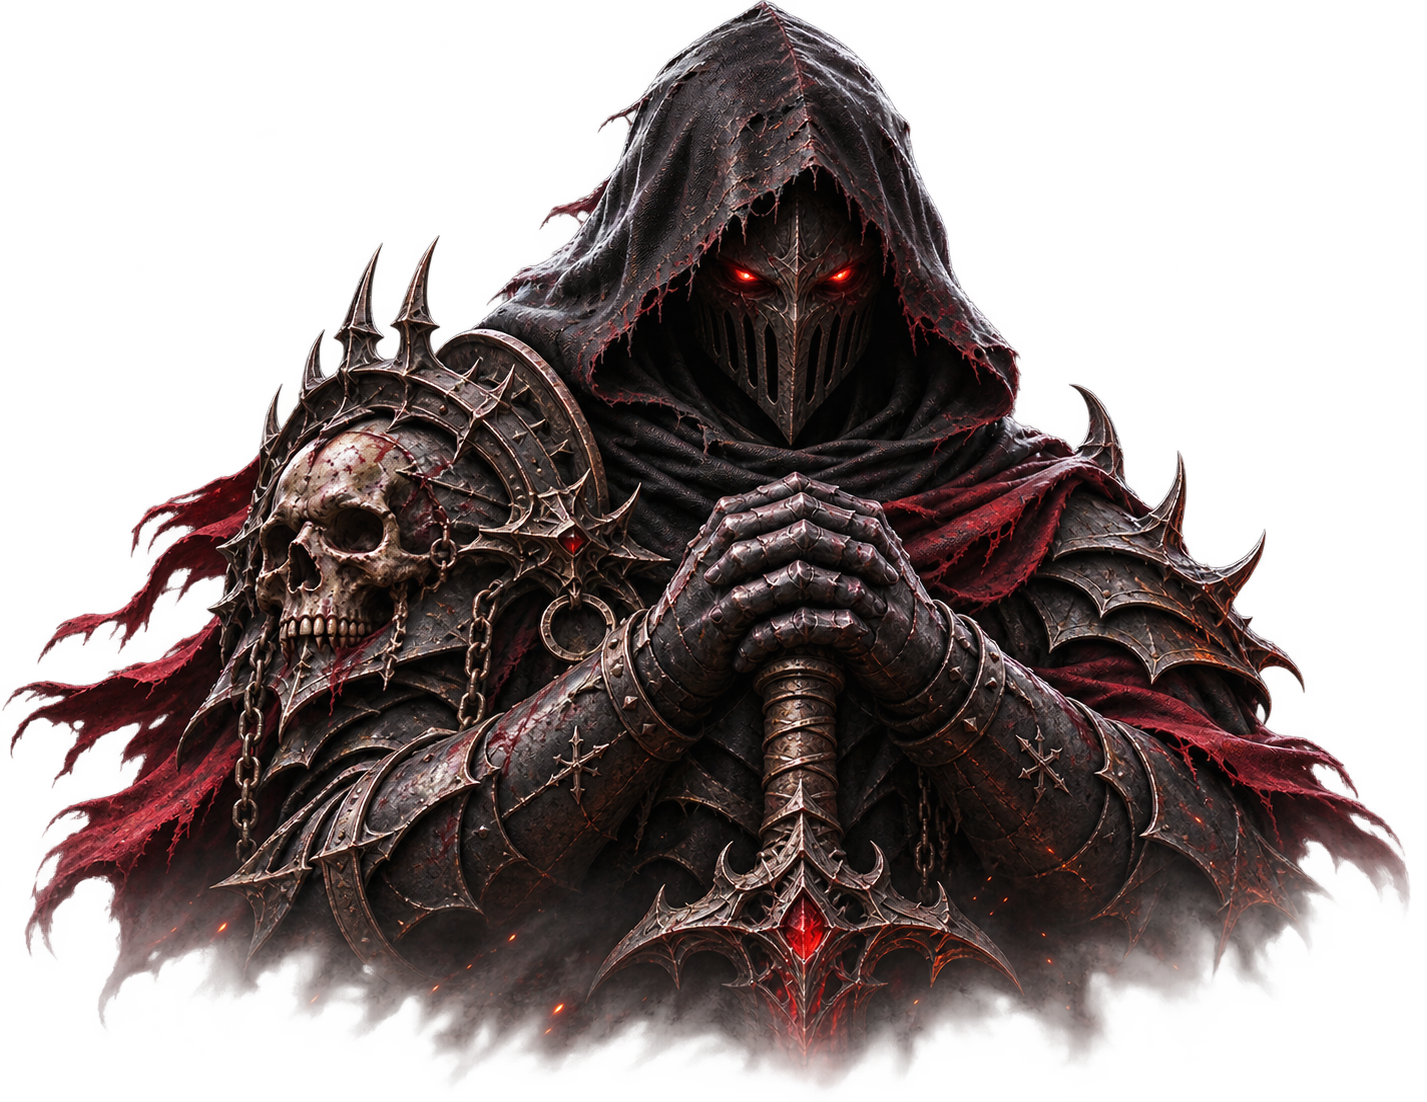
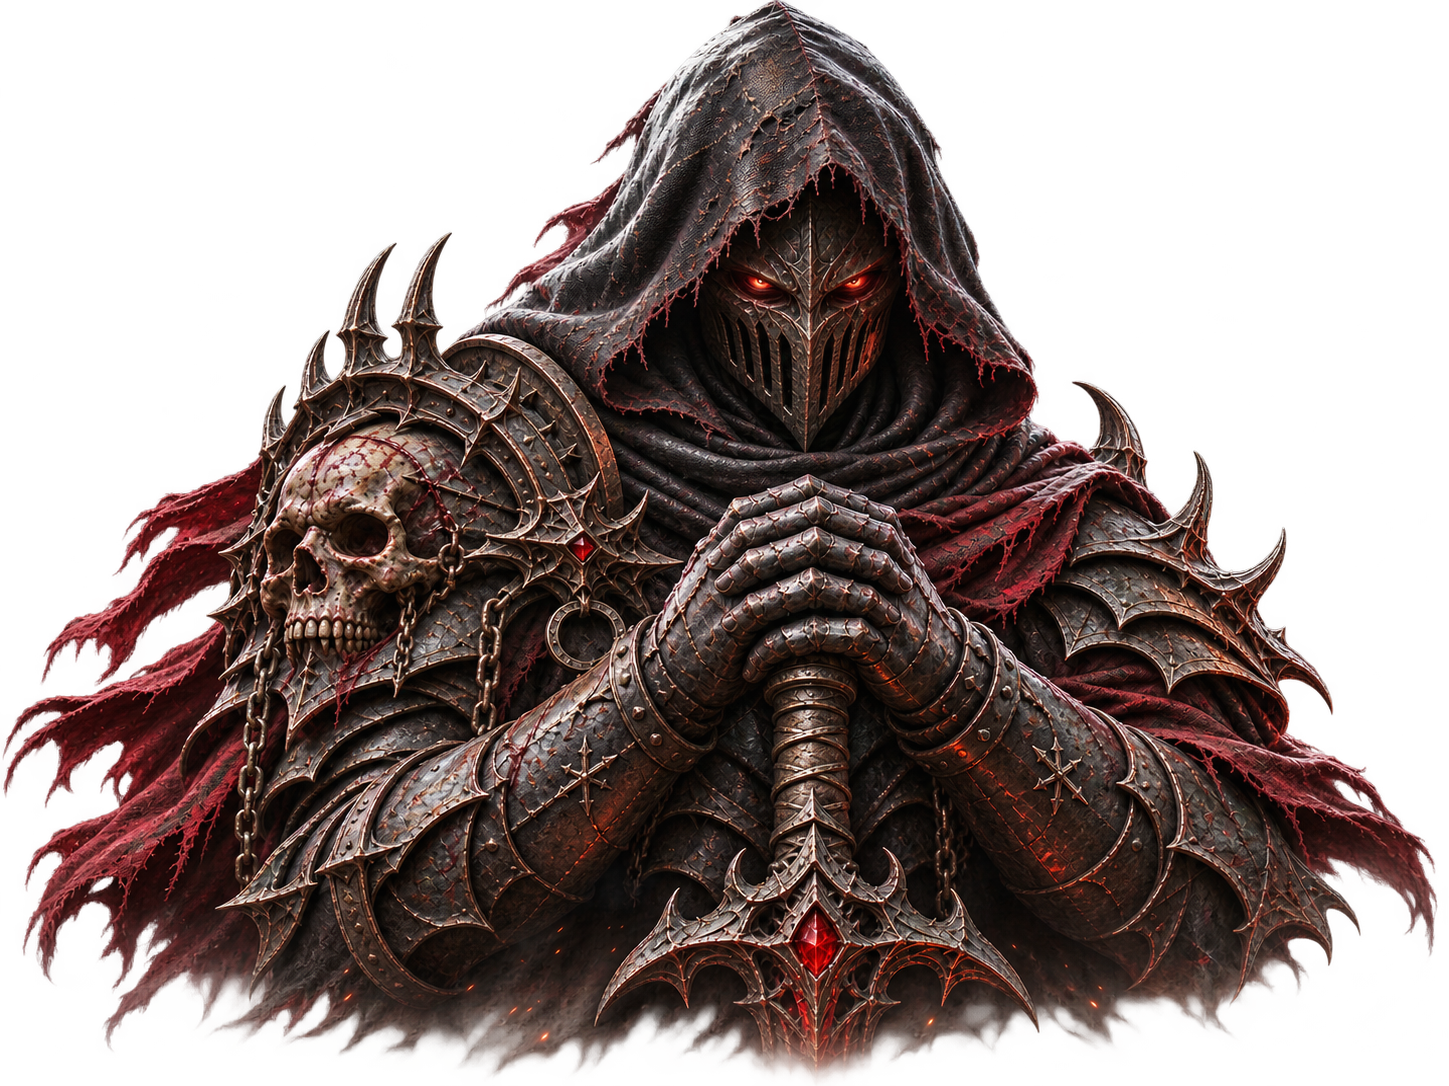
Try a more textured Shadow Knight footer portrait

diff --git a/index.html b/index.html
@@ -30,9 +30,9 @@
     <div class="container footer-inner">
       <a class="footer-brand" href="#/">
         <img class="footer-knight" src="img/cinematic/footer-shadow-knight.png"
-          srcset="img/cinematic/footer-shadow-knight.png 1427w, img/cinematic/footer-shadow-knight-4k.png 3840w"
+          srcset="img/cinematic/footer-shadow-knight.png 1449w, img/cinematic/footer-shadow-knight-4k.png 3840w"
           sizes="(max-width: 700px) min(92vw, 420px), min(45vw, 520px)"
-          alt="" width="1427" height="1102" loading="lazy">
+          alt="" width="1449" height="1086" loading="lazy">
         <img class="footer-wordmark" src="img/cinematic/wordmark.webp" alt="Shadow of Death" loading="lazy">
       </a>
       <nav class="footer-nav" aria-label="Footer navigation">
